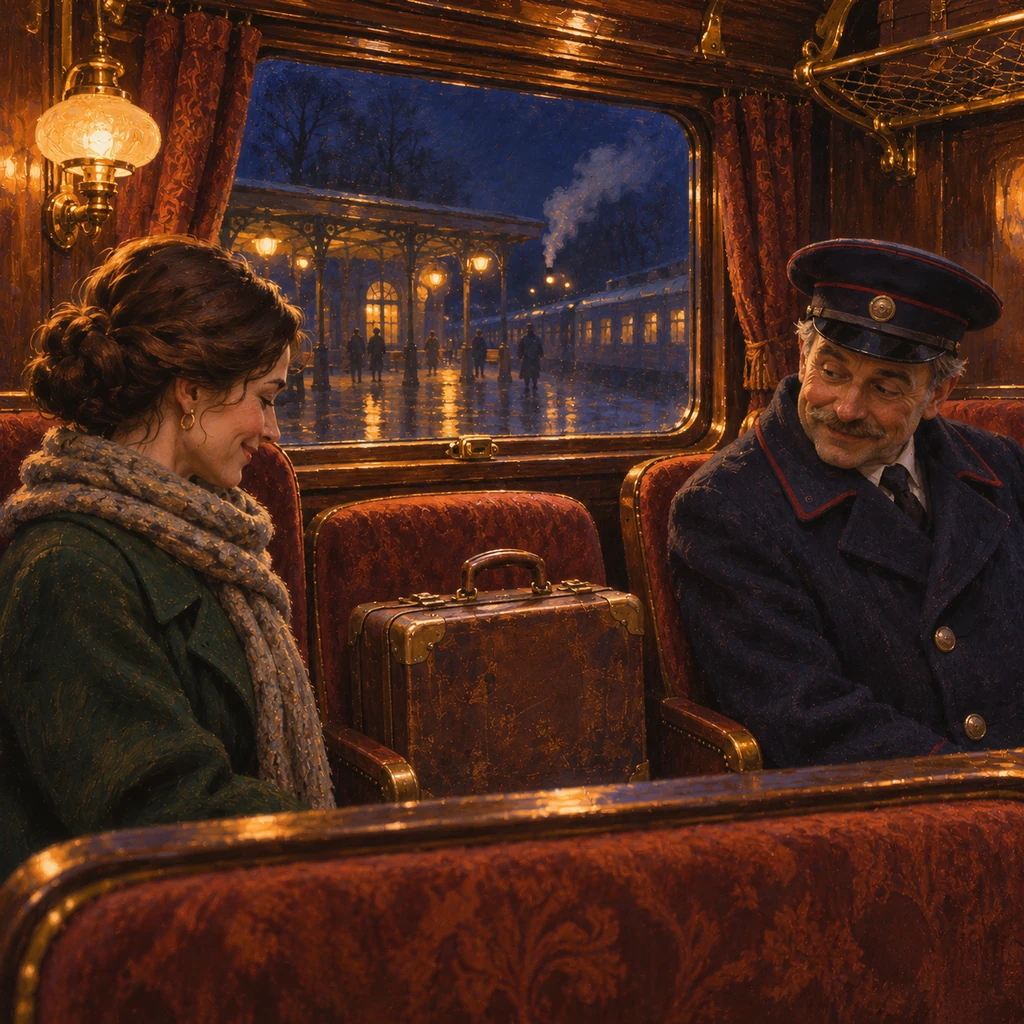
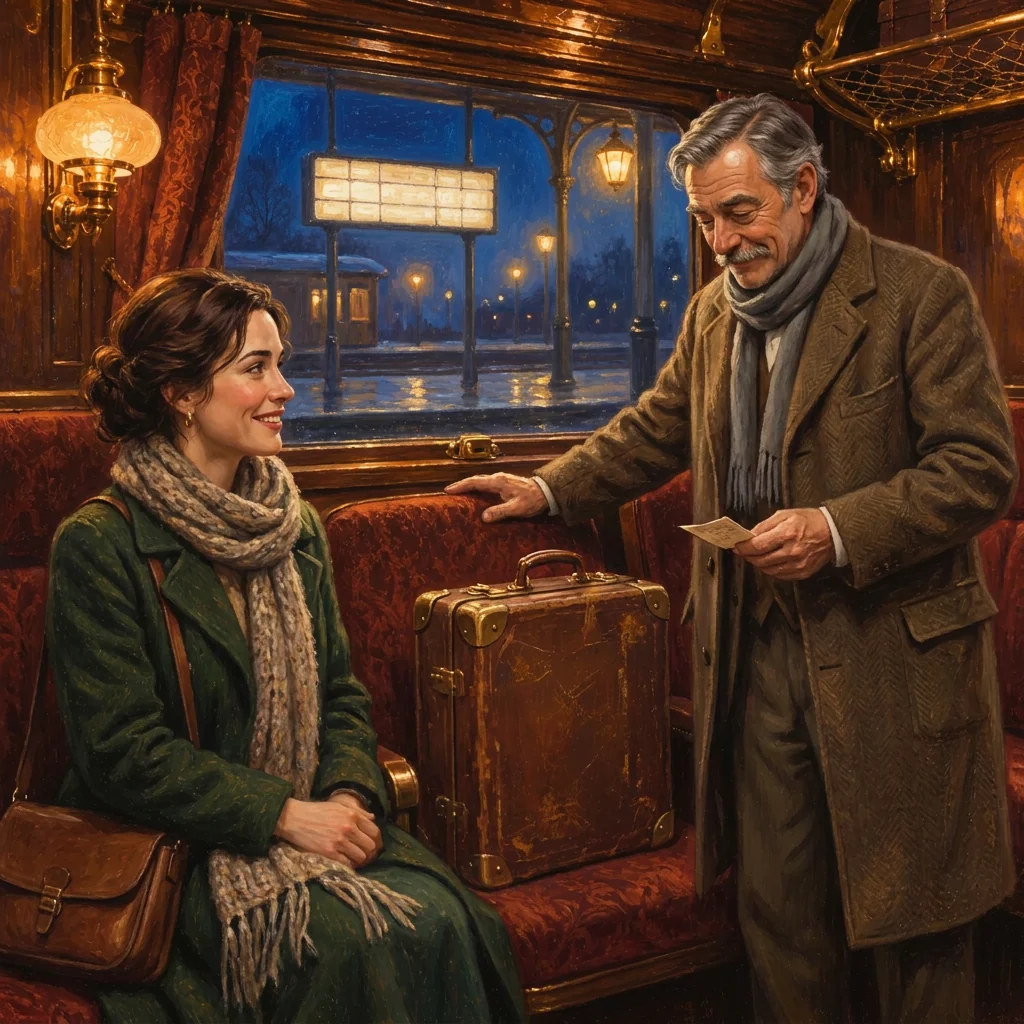
Repaint Last Train as passengers, warmer narrator, story-only framing
Both scenes repainted (platform; seated by the window) with Anna and Boris as
ordinary passengers. English narrator moves from Sulafat to Aoede with a
conversational southern British direction. Intro, bridges and close now say
what happens in the story; reassurance filler removed.

diff --git a/originals/last-train-google/README.md b/originals/last-train-google/README.md
@@ -2,11 +2,12 @@
 
 Two original ru-en scenes for the public Originals catalogue. Written for this
 Google TTS trial; no TV adaptation or source recording is used. It follows the
-standard five-part lesson and annotation contracts. The spoken walkthrough uses only quoted English translations, matching `originals/dvorik-u-mosta/s01e01/scene-01.json`; grammar explanations belong in the written notes. Artwork uses rich painted night-train illustrations, visually reviewed for anatomy and encoded as the required WebP. Scene 1 repairs the original hand/arm defect; scene 2, “By the Window,” continues Anna and Boris’s journey with a suitcase occupying a seat. The temporary SVG fallback has been removed.
+standard five-part lesson and annotation contracts. The spoken walkthrough uses only quoted English translations, matching `originals/dvorik-u-mosta/s01e01/scene-01.json`; grammar explanations belong in the written notes. Artwork uses rich painted night-train illustrations, visually reviewed for anatomy and encoded as the required WebP. Revision 4 repaints both scenes with Anna and Boris as ordinary passengers (no uniforms, staff or legible text): scene 1 on the platform at the train, scene 2 seated by the carriage window with the suitcase on the next seat. Scene 1 art is also the episode thumbnail and show cover. The temporary SVG fallback has been removed.
 
 Google model: `gemini-3.8-flash-tts`, via the Google Agent Platform REST endpoint.
-Anna: Kore. Boris: Charon. English narrator: Sulafat, directed as a warm female
-British English audiobook narrator. The exact directions are in `google-voices.json`.
+Anna: Kore. Boris: Charon. English narrator: Aoede (from revision 4, replacing Sulafat,
+which sounded robotic), directed as a warm, relaxed, conversational southern British
+woman, not a newsreader or audiobook voice. The exact directions are in `google-voices.json`.
 The narrator's British accent is requested explicitly; automatic transcription
 checks content, not accent or subjective voice quality.
 
